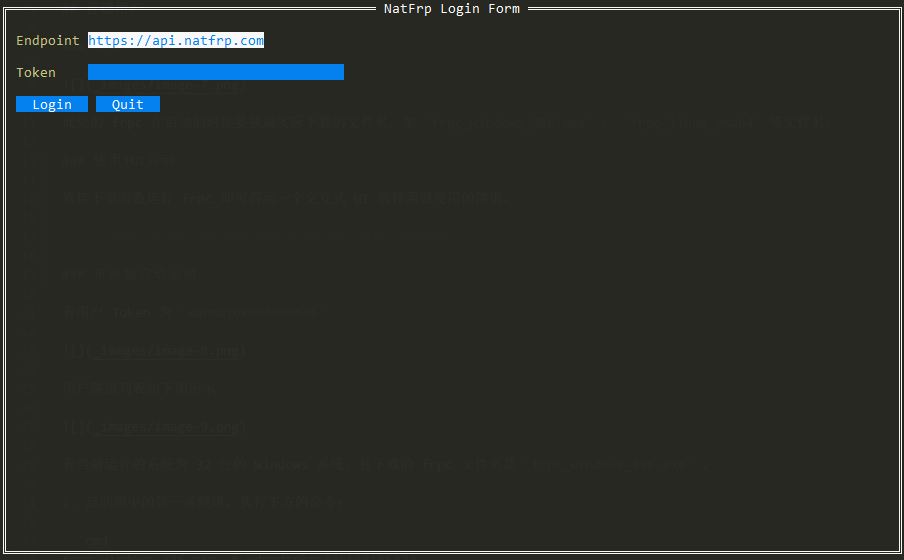
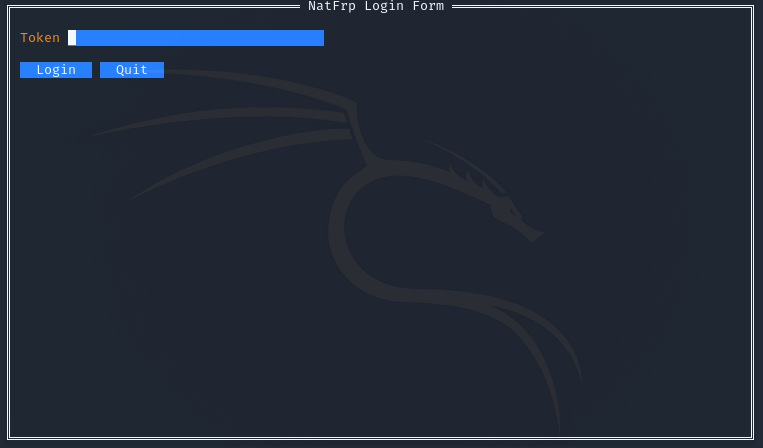
frpc/manual: Update manual & TUI

Changed region(s): [[0.0, 0.0, 1.0, 1.0]]

diff --git a/frpc/manual.md b/frpc/manual.md
@@ -1,8 +1,27 @@
 # frpc 用户手册
 
-Sakura Frp 基于原版 frpc 进行了一些修改，下面是 Sakura Frpc 的用户手册，高级用户请直接查看 [此章节](#高级用户)。
+SakuraFrp frpc 基于原版 frpc 进行了一些修改，下面是 SakuraFrp frpc 的用户手册，高级用户请直接查看 [此章节](#高级用户)
 
 ## 普通用户
+
+### 使用 TUI 启动
+
+在 `frpc.ini` 不存在的情况下，不带参数直接运行 frpc 会出现一个交互式 UI
+
+输入 **访问密钥**，然后使用 `Tab` 键切换到 **Login** 按钮并按 `回车` 键登录 (若终端支持也可使用鼠标进行操作)
+
+![](_images/tui-0.png)
+
+登录成功后 TUI 会显示当前账户下的隧道列表，使用方向键选中想要启动的隧道，按空格标为绿色 (或使用鼠标直接点击隧道)
+
+?> 可以一次性启用多个隧道，但是这些隧道必须位于同一节点下  
+您也可以直接选中节点来启用该节点下的所有隧道
+
+![](_images/tui-1.png)
+
+选择完毕后，按 `Ctrl-C` 即可启动隧道，相关启动参数会被保存到配置文件 `frpc.ini` 中，下次不带参数直接运行 frpc 时不再显示 TUI 而是直接启动隧道
+
+![](_images/tui-2.png)
 
 ### 从命令行启动
 
@@ -37,24 +56,6 @@ frpc_windows_386.exe -f wdnmdtoken666666:n6
 frpc_windows_386.exe -f wdnmdtoken666666:85823,94617
 ```
 
-### 使用TUI启动
-
-在没有配置文件的情况下，直接不带参数运行 frpc 即可得到一个交互式 UI 选择需要使用的隧道。
-
-![](_images/tui-0.png)
-
-按 `Tab` 键切换到 Token 输入框后输入 Token（访问密钥），然后切换到 Login 按钮并回车（终端支持的话，也可使用鼠标操作）。
-
-![](_images/tui-1.png)
-
-然后选择您想要启动的节点，按空格标为绿色。
-
-![](_images/tui-2.png)
-
-选择了所有想要启动的节点后，按 `Ctrl-C` 即可启动，本次启动参数会被保存到配置文件 `./frpc.ini` 中，下次启动时默认不再显示 TUI ，而是直接启动。
-
-![](_images/tui-3.png)
-
 ## 高级用户
 
 下面的文档详细解释了 Sakura Frp 提供的 frpc 与原开源版本的差异
@@ -86,22 +87,30 @@ frpc_windows_386.exe -f wdnmdtoken666666:85823,94617
    - 该选项启用后 RunID 将不再从服务器拉取而是根据本机特征 & 隧道信息生成，默认值为 `true`
 4. `remote_control = <String>`
    - 配置 Sakura Frp 远程管理端对端加密密码，留空则禁用远程管理相关功能，默认值为空
+   - 请参阅 [frpc 远程管理](/frpc/remote) 获取更多信息
 
 ##### [tcp_proxy]
 1. `concat_packet = <Int>`
    - 配置合并封包功能的最小字节数，有助于减少小包并降低服务器网卡 PPS，设置为 `-1` 将禁用此功能，默认值为 `-1`
 2. `auto_https = <String>`
-   - 当你需要通过TCP隧道转发 http 内容时，可能会被机房拦截，此时可以通过此项配置项将其在客户端转发为 https 内容，当配置内容为：
-     - 你所需要的域名时，Frpc 将会首先试图在当前目录加载 `<your-domain>.(crt|key)` 作为证书，如果不存在证书文件，则将自动生成自签名证书
-     - `auto` 时，Frpc 将使用`server_name`作为证书 Common Name
+   - 当您需要通过 TCP 隧道转发 HTTP 流量时，该流量可能会被机房拦截
+   - 通过该配置项可将流量自动加上 TLS 层 (转为 HTTPS) 来避免拦截，取值如下:
+     - 留空 **[默认值]**: 禁用自动 HTTPS 功能
+     - `auto`: frpc 将使用`server_name`作为证书 Common Name
+     - 自定义域名: frpc 将加载 `<自定义域名>.(crt|key)` 作为证书，若证书文件不存在，frpc 将生成一份自签名证书
 3. `auth_pass = <String>`
-   - 设置后在连接前必须使用浏览器打开 `https://你的映射地址` 输入密码进行认证，在认证通过前来自当前ip所有的连接都会被阻止，认证通过后一小时内此ip连接被许可，一小时后再次被阻止。该选项可有效保护安全。
+   - 配置 SakuraFrp 访问认证功能的密码，留空则禁用访问认证相关功能，默认值为空
+   - 请参阅 [安全指南](/app/security) 获取更多信息
 4. `auth_mode = <String>`
-   - 认证模式：如果设置为"online"即允许使用SakuraFrp用户面板在线认证，"standalone"即不启用。默认值为"online"。目前用户面板认证功能未上线。
+   - 配置 SakuraFrp 访问认证功能的认证模式，取值如下:
+     - `online` **[默认值]**: 允许通过密码认证或通过 SakuraFrp 面板进行授权
+     - `standalone`: 仅允许通过密码认证, 忽略 frps 下发的 IP 授权信息
 
 ##### [https_proxy]
 1. `force_https = <Int>`
-   - 配置 frps 自动重定向 HTTP 请求到 HTTPS 的功能，有助于减少隧道占用。该值指示一个在重定向时返回给浏览器的 HTTP 状态码，设置为 `0` 将禁用此功能，默认值为 `0`
+   - 配置 frps 自动重定向 HTTP 请求到 HTTPS 的功能，有助于减少隧道占用，取值如下:
+     - `0` **[默认值]**: 禁用自动重定向功能
+     - 其他数字: 启用重定向功能并在重定向时返回该数字作为状态码，推荐使用 `301` 或 `302`
 
 ### 新增特性
 
